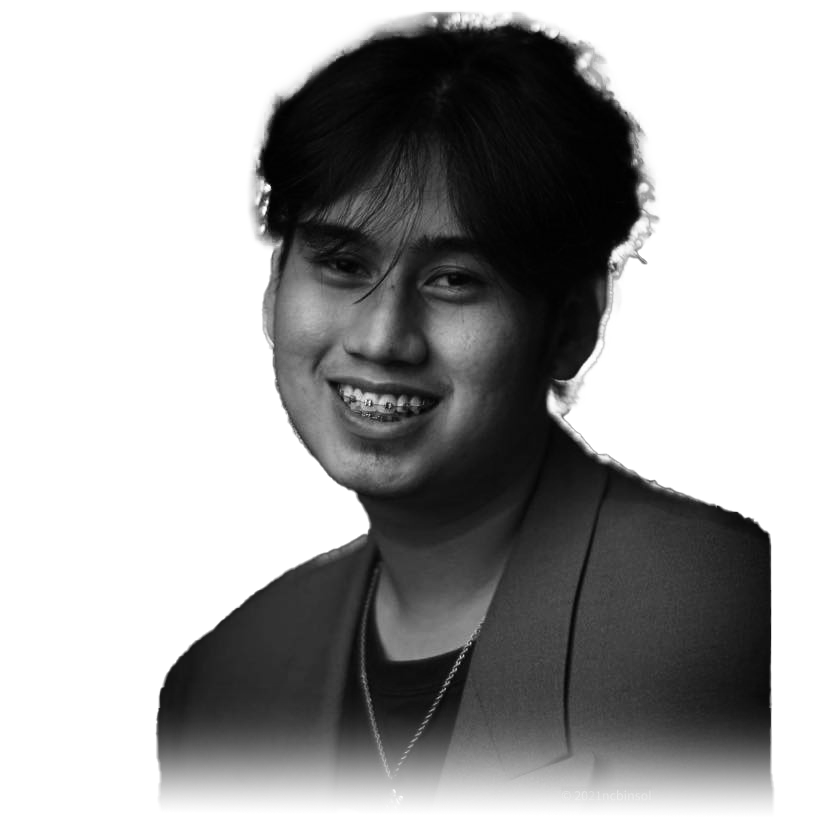
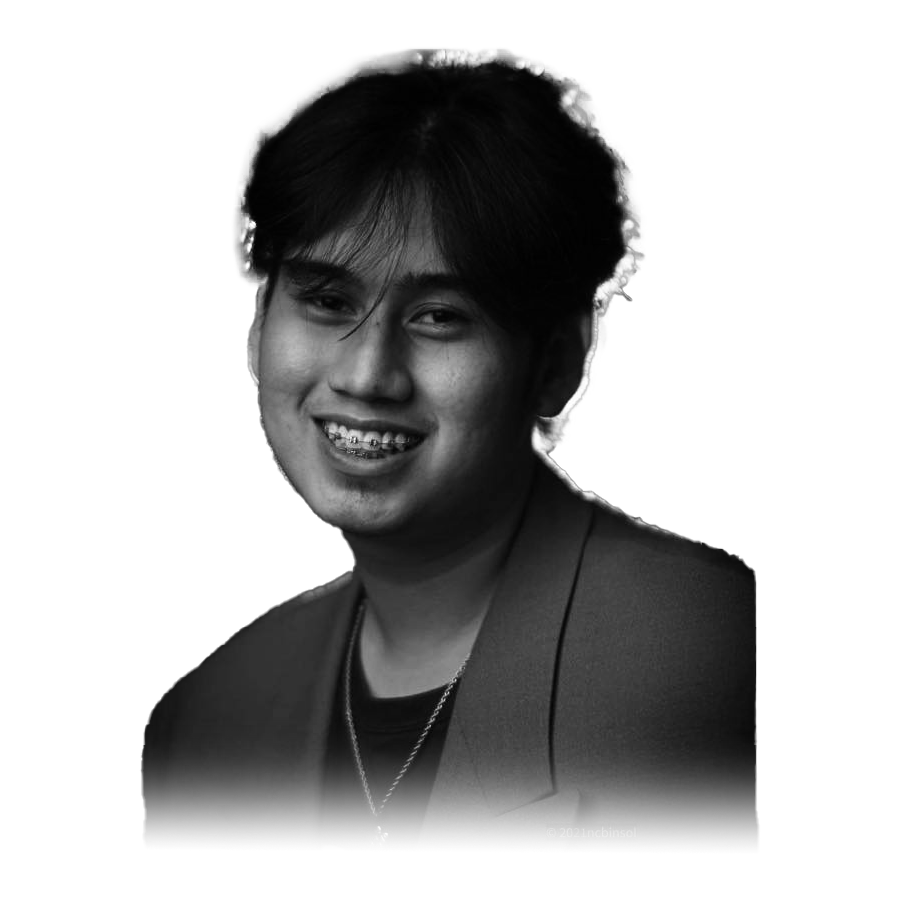
change the hero image

diff --git a/src/components/Hero.jsx b/src/components/Hero.jsx
@@ -5,7 +5,7 @@ import { motion } from "framer-motion";
 const Hero = () => {
   return (
     <div className="text-white ">
-      <div className=" max-w-[1000px] pt-[-96px] w-full h-screen mx-auto text-center flex flex-col-reverse md:flex-row justify-center items-center">
+      <div className=" max-w-[1240px] pt-[-96px] w-full h-screen mx-auto text-center flex flex-col-reverse md:flex-row justify-center items-center">
         <div className="flex w-[50%] items-center justify-center flex-col">
           <motion.p
             initial={{ x: -50, opacity: 0 }}
